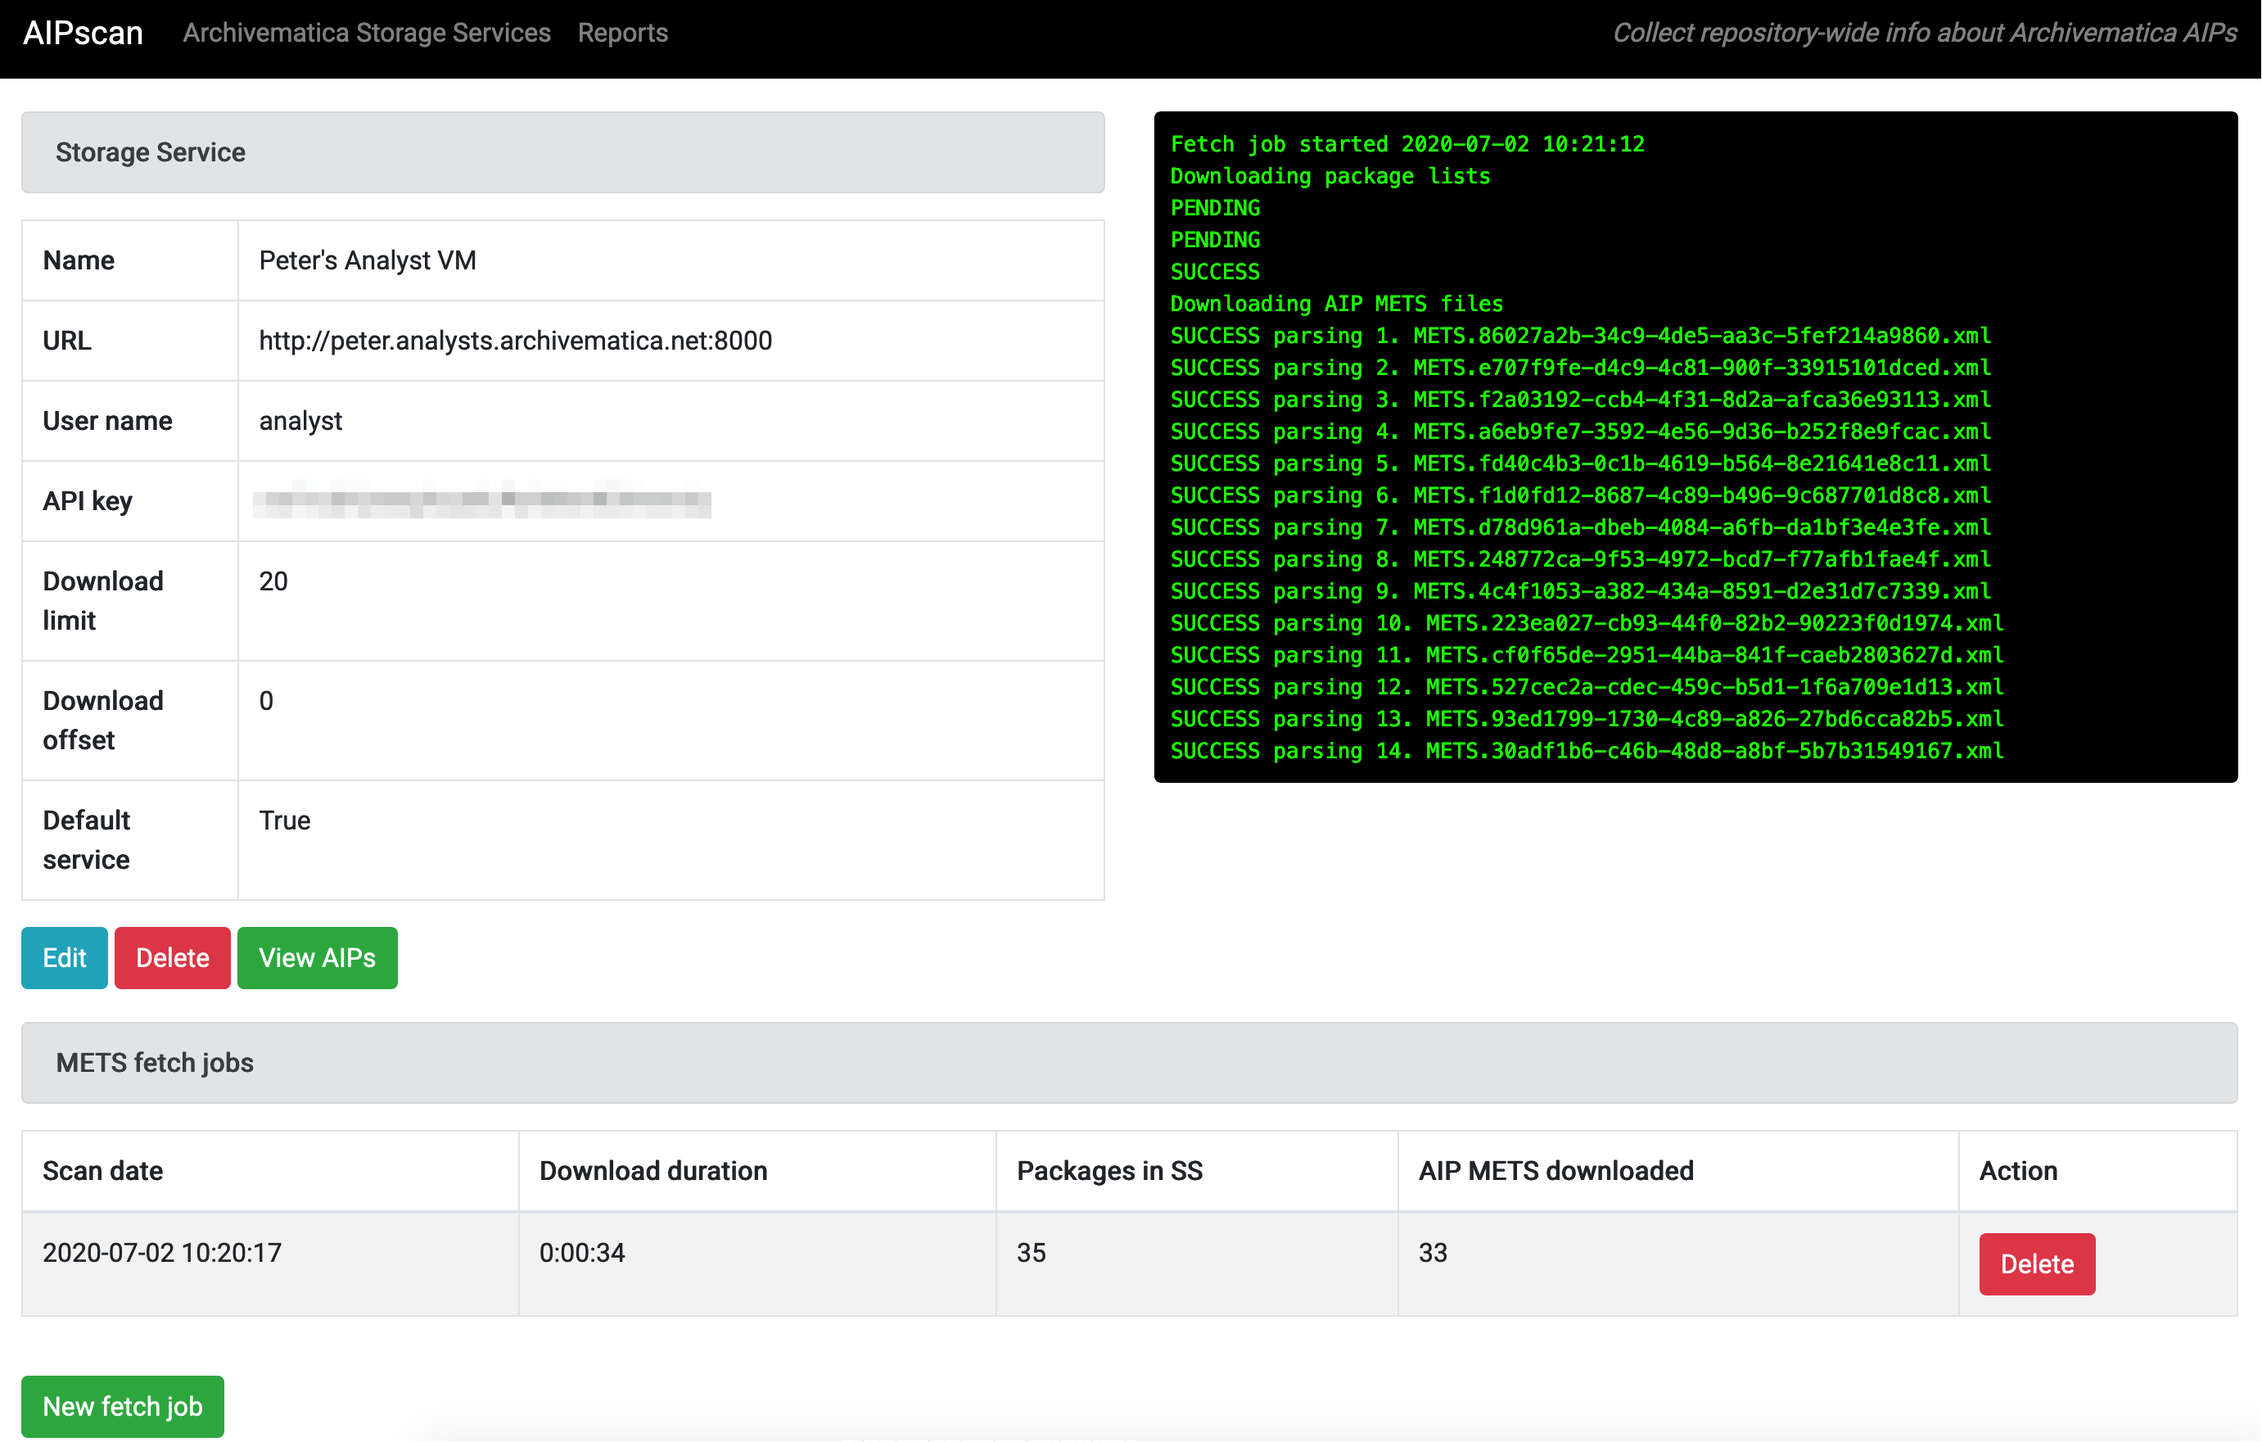
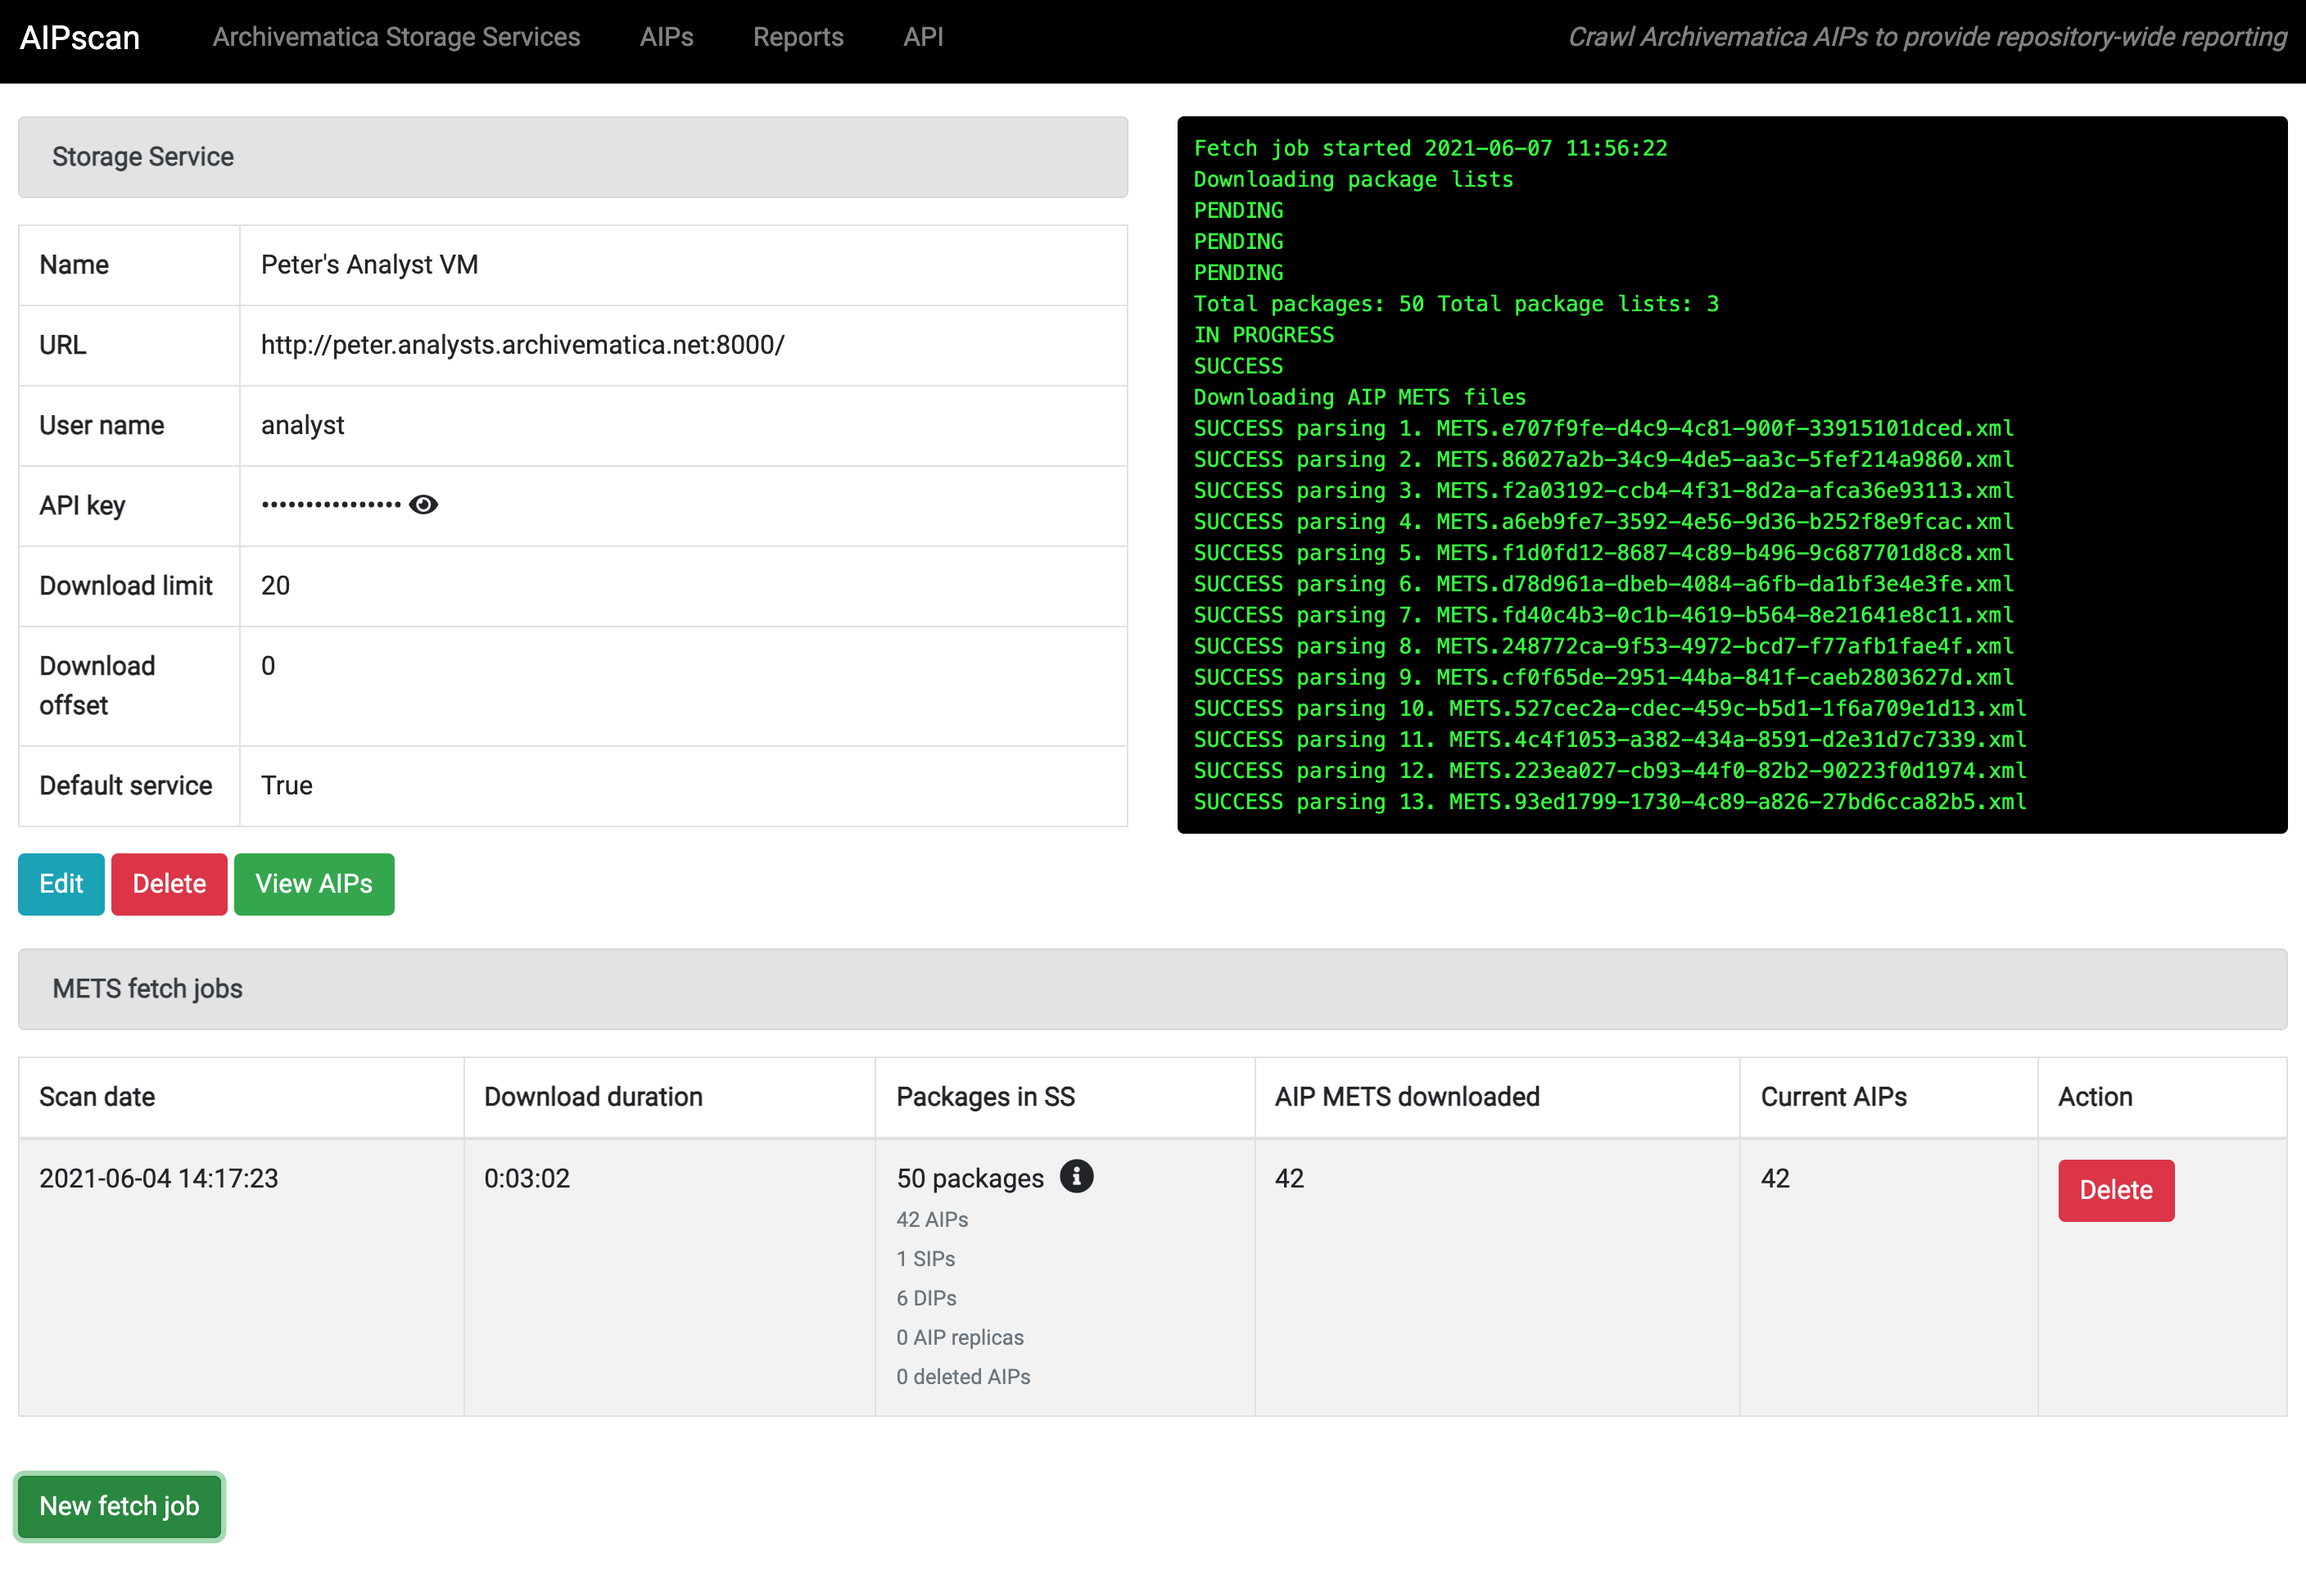
update screencaps to use latest app version

diff --git a/README.md b/README.md
@@ -16,23 +16,28 @@ Copyright Artefactual Systems Inc (2021)
 * [Installation](#installation)
 * [Usage](#usage)
 
-# Screenshots
+## Screenshots
 
-## Example AIPScan fetch job
+### AIPScan fetch job
 
 ![screencap1](screencaps/aipscan_fetch_job.png)
 
-## Viewing an AIP in AIPScan
+### Finding an AIP  
 
-![screencap2](screencaps/aipscan_view_aip.png)
+![screencap2](screencaps/aipscan_find_aip.png)
 
-## Selecting a report to run in AIPScan
+### Viewing an AIP
 
-![screencap3](screencaps/aipscan_select_report.png)
+![screencap3](screencaps/aipscan_view_aip.png)
 
-## Demonstration of a scatter chart report
+### Selecting a report
 
-![screencap4](screencaps/aipscan_scatterplot_report.png)
+![screencap4](screencaps/aipscan_select_report.png)
+
+### Report examples
+
+![screencap5](screencaps/aipscan_piechart_report.png)
+![screencap6](screencaps/aipscan_tabular_report.png)
 
 # Installation
 
